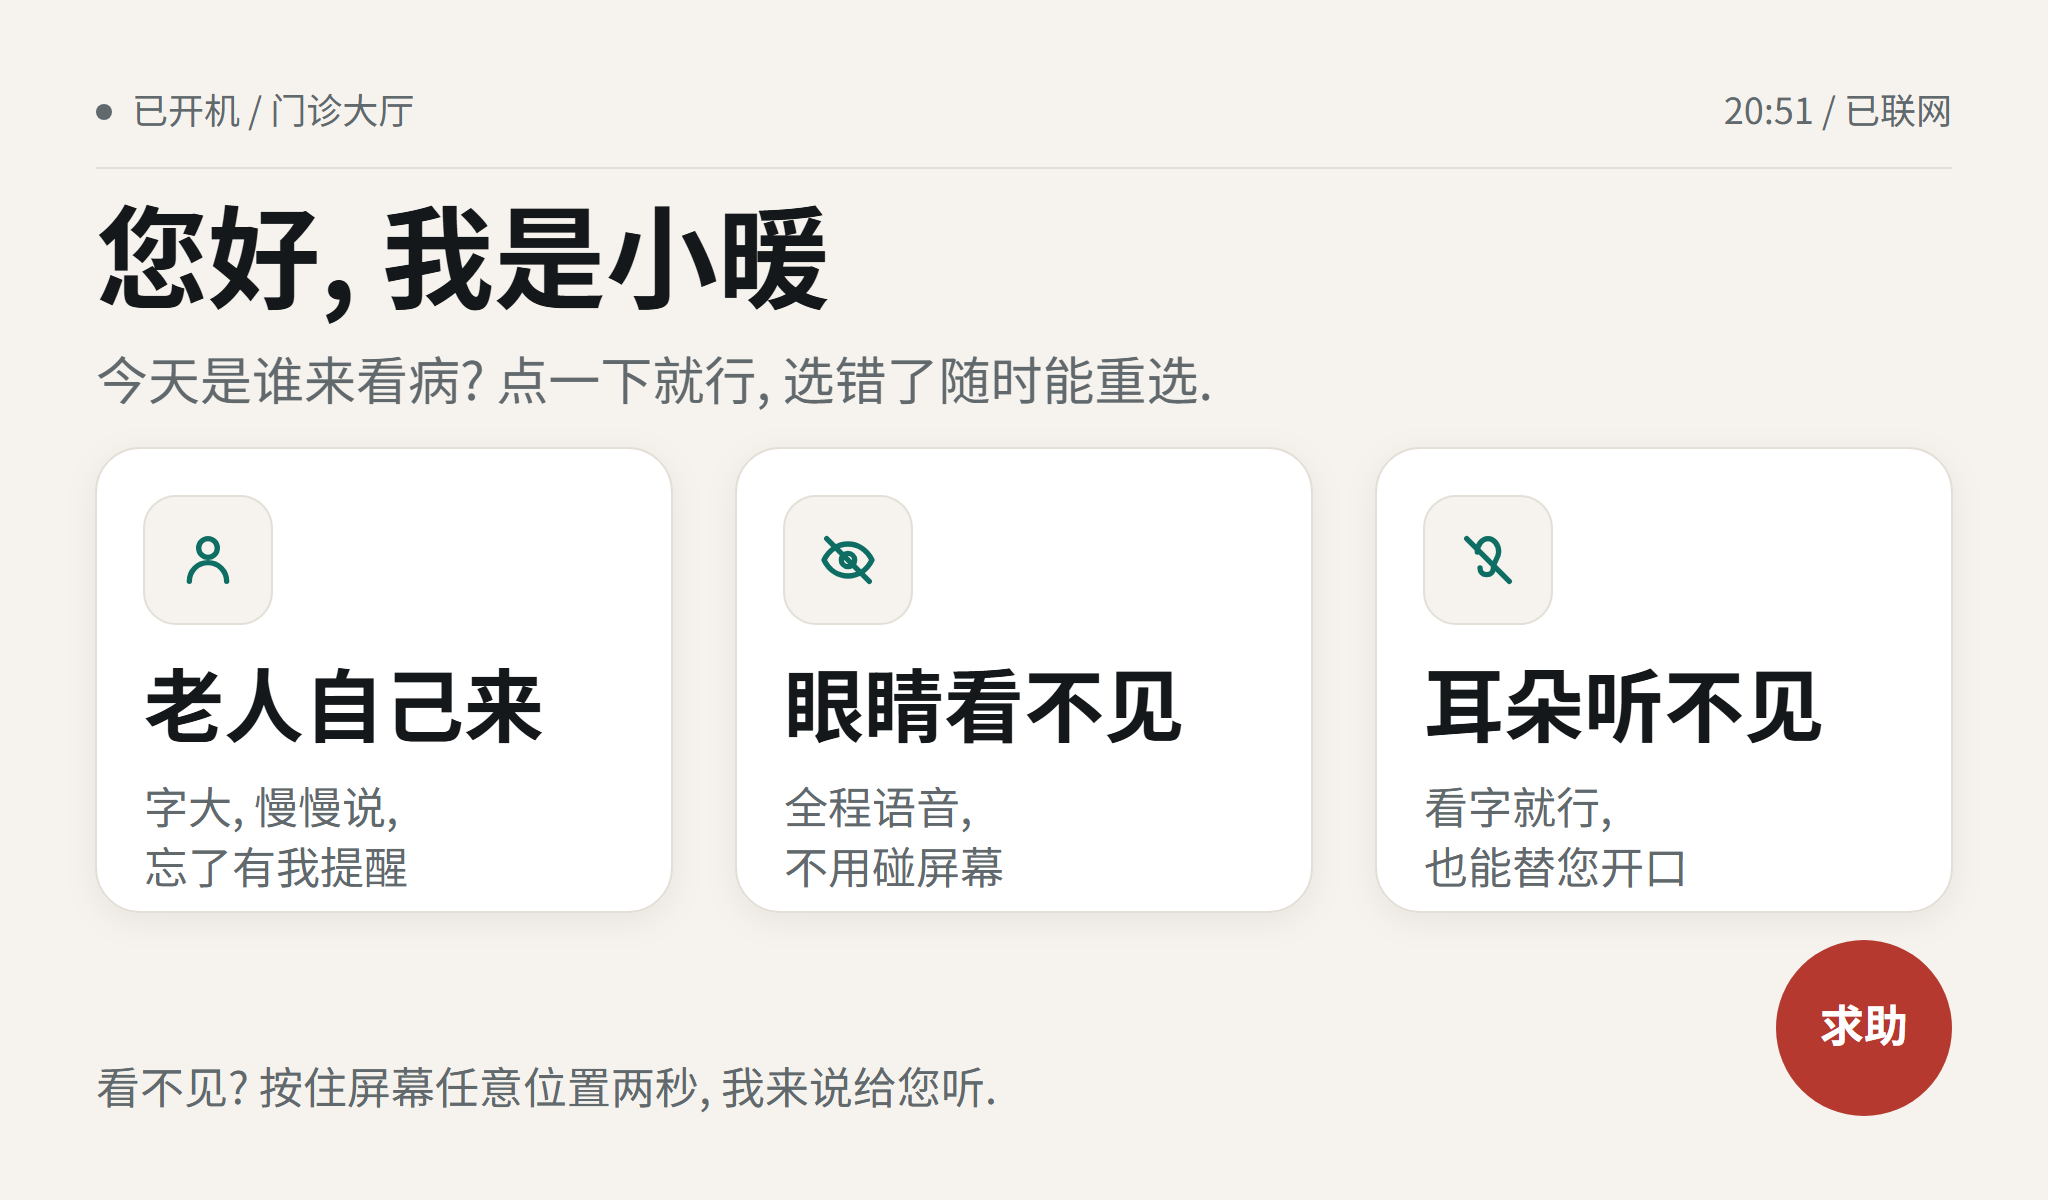
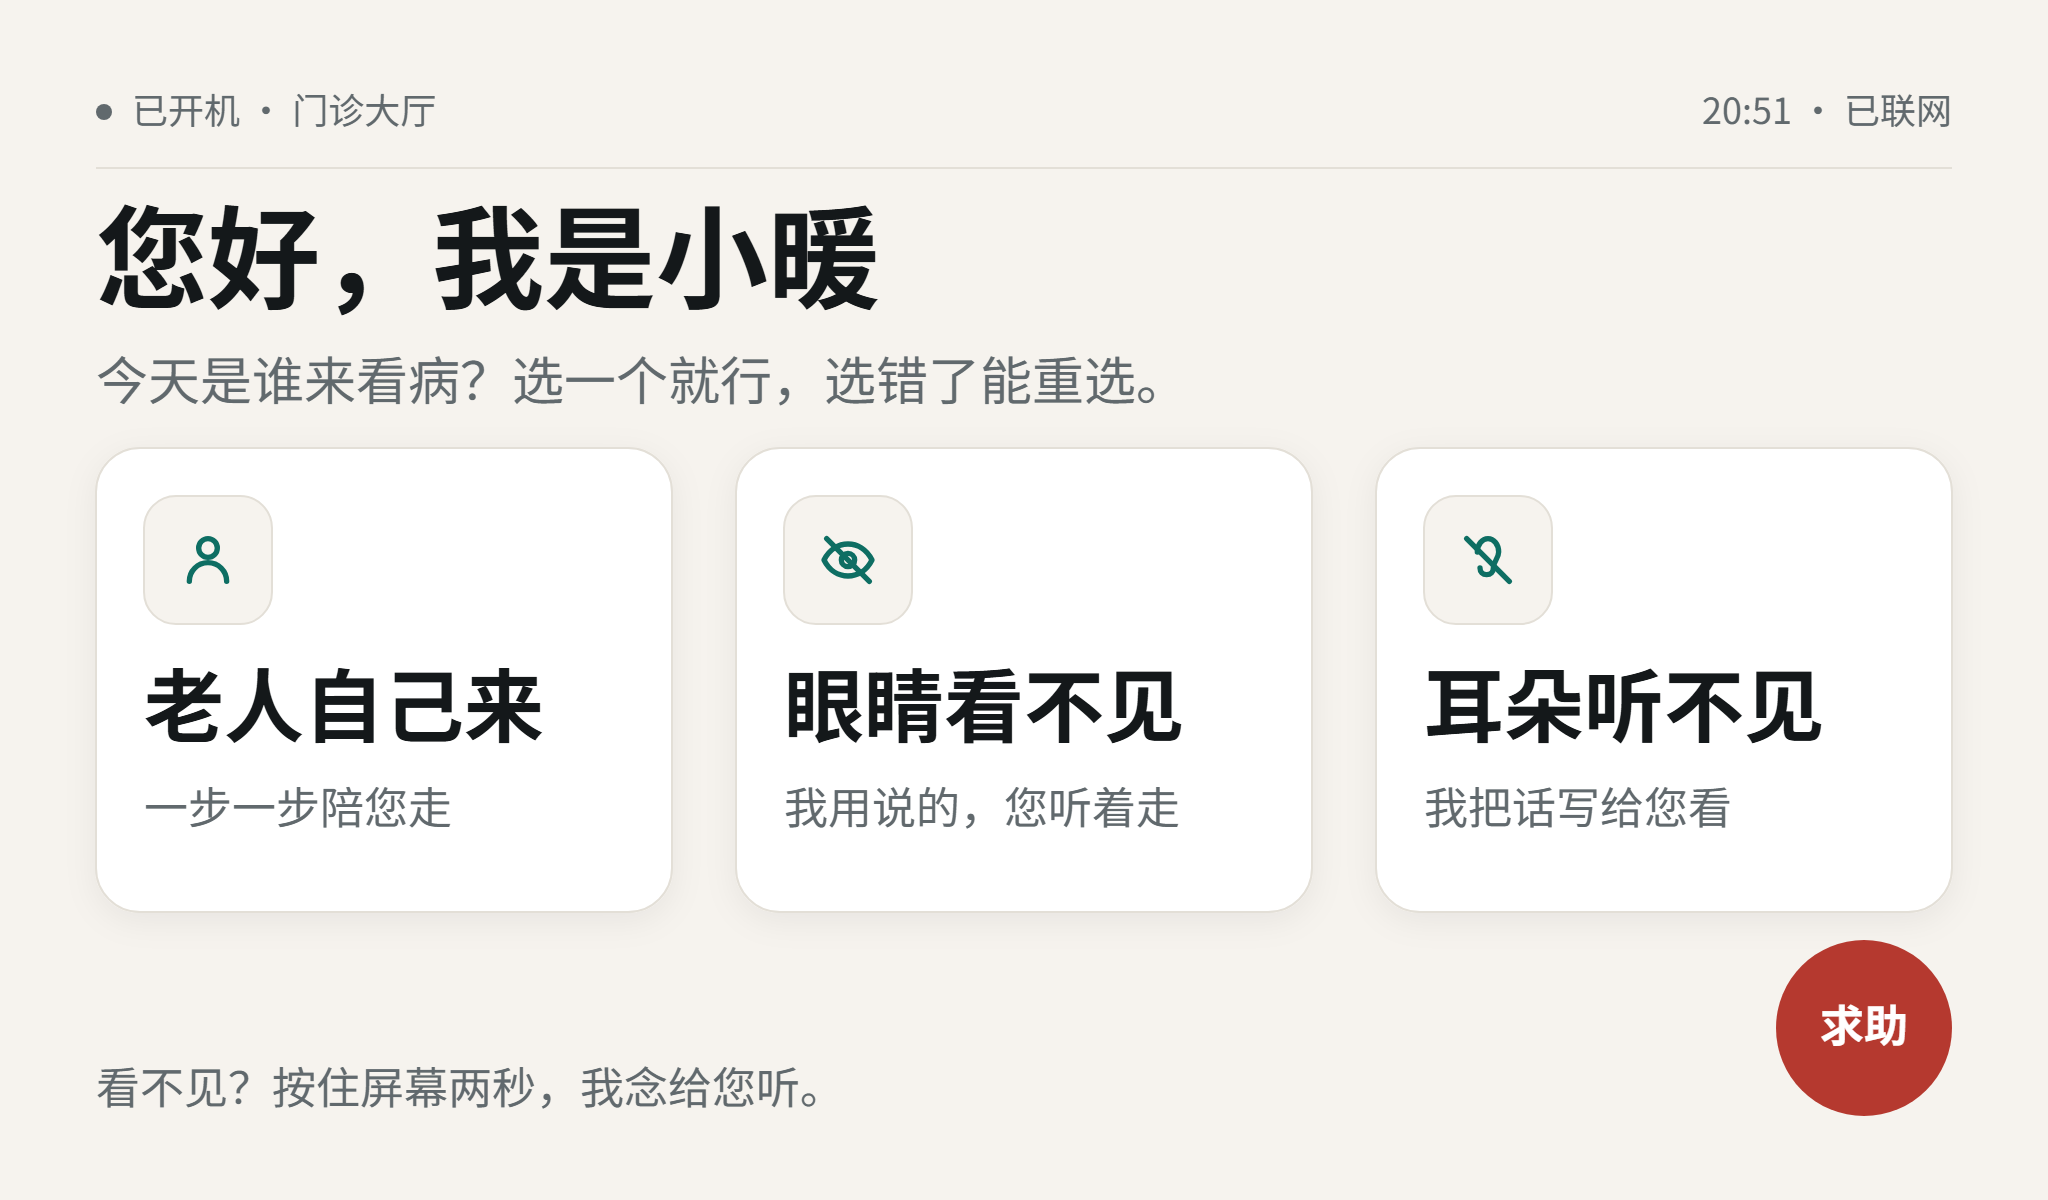
fix(T2): 屏01/04 按 T4 定稿同步文案与状态条

diff --git a/02-design/08-高保真规格-01-04.md b/02-design/08-高保真规格-01-04.md
@@ -2,8 +2,8 @@
 
 > 任务: 11-10 屏 01 入口分流 + 屏 04 复述校验.
 > 内容来源: `05-屏幕清单.md`. 样式来源: `04-视觉系统.md`. 组件来源: `07-组件库清单.md`.
-> 本文件只做落地规格, 不新增文案. 文案标点按项目规则转 ASCII, 语义不变; T4 若要全角标点, 以 T4 为准.
-> 磁贴说明 / 状态条 / 卡片标签是版式占位, T4 定稿后替换, 不改版式.
+> 本文件只做落地规格, 不新增文案. 文案取 T4 定稿 `05-research/屏幕动作提示-1117.md` 与 `05-屏幕清单.md`; 图内标点用全角, 本文件正文用 ASCII.
+> 副话 / 页脚 / 磁贴说明已按 T4 定稿替换, 每块不超过 18 字; T4 后续改词不改版式.
 > `参考-高保真草稿/` 里的 SVG 是布局参考, 不是交付图. 交付以 Figma 为准.
 
 ## 1 共用规则
@@ -43,18 +43,18 @@ y=530  页脚 22
 
 | 元素 | 位置 / 尺寸 | 样式 | 内容 |
 | --- | --- | --- | --- |
-| 状态条 | x=48, y=42, h=28 | 8px 圆点, 18px, ink-500 | 左: 已开机 / 门诊大厅. 右: 20:51 / 已联网 |
+| 状态条 | x=48, y=42, h=28 | 8px 圆点, 18px, ink-500 | 左: 已开机 · 门诊大厅. 右: 20:51 · 已联网. 不写屏名 |
 | 分隔线 | x=48..976, y=84 | 1px, line | - |
 | 标题 | x=48, 基线 150 | 56 / 700, ink-900 | 您好, 我是小暖 |
-| 副话 | x=48, 基线 200 | 26 / 400, ink-500 | 今天是谁来看病? 点一下就行, 选错了随时能重选. |
+| 副话 | x=48, 基线 200 | 26 / 400, ink-500 | 今天是谁来看病? 选一个就行, 选错了能重选. |
 | 磁贴 1 | x=48, y=224, 288 x 232 | r=22, surface, 1px line, 单层影 | 老人自己来 |
 | 磁贴 2 | x=368, y=224, 288 x 232 | 同上 | 眼睛看不见 |
 | 磁贴 3 | x=688, y=224, 288 x 232 | 同上 | 耳朵听不见 |
 | 图标底 | x=磁贴 x + 24, y=248, 64 x 64 | r=16, paper, 1px line | - |
 | 图标 | 32 x 32, 居中 | 2px 线, teal-600 | 人 / 眼加斜线 / 耳加斜线 |
 | 磁贴标题 | x=磁贴 x + 24, 基线 368 | 40 / 700, ink-900 | 见 2.3 |
-| 磁贴说明 | x=磁贴 x + 24, 基线 412 / 442 | 22 / 400, ink-500 | 两行, 见 2.3 |
-| 页脚 | x=48, 基线 552 | 22 / 400, ink-500 | 看不见? 按住屏幕任意位置两秒, 我来说给您听. |
+| 磁贴说明 | x=磁贴 x + 24, 基线 412 | 22 / 400, ink-500 | 单行, 见 2.3 |
+| 页脚 | x=48, 基线 552 | 22 / 400, ink-500 | 看不见? 按住屏幕两秒, 我念给您听. |
 | 求助键 | x=888, y=470, 88 x 88 | r=44, red-600, 白字 22 / 700 | 求助 |
 
 宽度算式: `3 x 288 + 2 x 32 = 928`, 正好落在 48..976.
@@ -63,16 +63,20 @@ y=530  页脚 22
 
 | 元素 | 文案 | 汉字数 |
 | --- | --- | --- |
-| 标题 | 您好, 我是小暖 | 6 |
-| 副话 | 今天是谁来看病? 点一下就行, 选错了随时能重选. | 20 |
+| 标题 | 您好，我是小暖 | 6 |
+| 副话 | 今天是谁来看病？选一个就行，选错了能重选。 | 18 |
 | 磁贴 1 标题 | 老人自己来 | 5 |
-| 磁贴 1 说明 | 字大, 慢慢说, 忘了有我提醒 | 11 |
+| 磁贴 1 说明 | 一步一步陪您走 | 7 |
 | 磁贴 2 标题 | 眼睛看不见 | 5 |
-| 磁贴 2 说明 | 全程语音, 不用碰屏幕 | 9 |
+| 磁贴 2 说明 | 我用说的，您听着走 | 8 |
 | 磁贴 3 标题 | 耳朵听不见 | 5 |
-| 磁贴 3 说明 | 看字就行, 也能替您开口 | 10 |
-| 页脚 | 看不见? 按住屏幕任意位置两秒, 我来说给您听. | 19 |
+| 磁贴 3 说明 | 我把话写给您看 | 7 |
+| 页脚 | 看不见？按住屏幕两秒，我念给您听。 | 14 |
 | 求助键 | 求助 | 2 |
+
+字数按汉字 + 数字 + 字母, 不含标点; 单块 ≤18 字. 取 T4 `屏幕动作提示-1117.md` §3.
+
+T4 同表还给了 01 的「听障提示: 不用听，看字就行」, 但 `05-屏幕清单.md` 的 01 段没有这一项, 加上会成第 4 个文字块, 与信息架构「同屏 ≤3 块」冲突. 本屏暂不出, 待 T1 与 T4 定是否进图.
 
 ### 2.4 状态与验收
 
@@ -105,7 +109,7 @@ y=530  页脚 22
 
 | 元素 | 位置 / 尺寸 | 样式 | 内容 |
 | --- | --- | --- | --- |
-| 状态条 | x=48, y=42, h=28 | 8px 圆点, 18px, ink-500 | 左: 复述校验. 右: 20:51 / 已联网 |
+| 状态条 | x=48, y=42, h=28 | 8px 圆点, 18px, ink-500 | 左: 已开机 · 门诊大厅. 右: 20:51 · 已联网. 不写屏名 |
 | 分隔线 | x=48..976, y=84 | 1px, line | - |
 | 标题 | x=48, 基线 140 | 40 / 700, ink-900 | 我复述一遍, 您听听对不对 |
 | 卡片 | x=48, y=180, 928 x 200 | r=20, surface, 1px line, 单层影 | - |
@@ -128,17 +132,19 @@ y=530  页脚 22
 
 | 元素 | 文案 | 汉字数 |
 | --- | --- | --- |
-| 标题 | 我复述一遍, 您听听对不对 | 11 |
+| 标题 | 我复述一遍，您听听对不对 | 11 |
 | 标签 1 | 今天看 | 3 |
-| 值 1 | 心血管内科 / 王医生 / 9:40 | 8 |
+| 值 1 | 心血管内科 · 王医生 · 9:40 | 8 |
 | 标签 2 | 要做 | 2 |
-| 值 2 | 两件事: 抽血(要空腹), 心电图 | 11 |
+| 值 2 | 两件事：抽血（要空腹）、心电图 | 11 |
 | 标签 3 | 在哪 | 2 |
-| 值 3 | 都在二楼, 先抽血, 再做心电图 | 12 |
-| 主按钮 | 对, 就是这样 | 5 |
-| 次按钮 | 不对, 我再说一遍 | 7 |
-| 页脚 | 记不住没关系, 我会一直记着. | 12 |
+| 值 3 | 都在二楼，先抽血，再做心电图 | 12 |
+| 主按钮 | 对，就是这样 | 5 |
+| 次按钮 | 不对，我再说一遍 | 7 |
+| 页脚 | 记不住没关系，我会一直记着。 | 12 |
 | 求助键 | 求助 | 2 |
+
+取 T4 `屏幕动作提示-1117.md` §5. T4 的值 2 写「要做两件事：…」, 与标签「要做」重复, 这里去掉前缀, 语义不变; 若 T4 要求逐字照抄, 改这一格即可.
 
 ### 3.4 状态与验收
 
@@ -170,13 +176,14 @@ y=530  页脚 22
 
 | 屏 | 主话 / 标题 | 内容块 | 按钮 | 状态色 | 求助键 |
 | --- | --- | --- | --- | --- | --- |
-| 02 视障语音通道 | 往前走十八步 | 波形 + 步数 | 无 | 红 | 是 |
-| 03 替我说 | 替我说 | 芯片 6 | 主按钮 1 | 红 | 是 |
-| 05 医保三宫格 | 这 386 块, 医保帮您出了 253 块 | 金额宫格 3 + 明细 | 无 / 次按钮 | 红 | 是 |
-| 06 家属端 | 报平安, 不监控 | 三条原则 + 手机卡 3 | 无 | 绿点 3 + 红 | 是 |
-| E1 我没听清 | 我没听清, 您说的是哪个? | 两个候选 320 x 200 | 次按钮 1 | 红 | 是 |
+| 02 视障语音通道 | 往前走十八步 | 波形 + 任务进度 | 无 | 无 | 否, 任意位置长按 1.5s |
+| 03 替我说 | 替我说 | 芯片 6 | 主按钮 1 | 无 | 是 |
+| 05 医保三宫格 | 这 386 块，医保帮您出了 253 块 | 金额宫格 3 + 明细 | 无 / 次按钮 | 无 | 是 |
+| 06 家属端 | 她一个人来的，每一步我都知道 | 三条原则 + 手机卡 3 | 无 | 绿点 3 | 是 |
+| E1 我没听清 | 我没听清，您说的是哪个？ | 两个候选 320 x 200 | 次按钮 1 | 琥珀 | 是 |
 
 坐标按 01 / 04 的栅格推导, 不在这里写死. 05 的文案与 04 的字阶优先.
+02 无独立求助键, 页面无明显按钮; 各屏状态色只表达实际状态, 不作装饰 (红色只给求助与出错, 绿色只给已完成, 琥珀只给待办与不确定).
 
 ## 6 导出自检
 
@@ -184,7 +191,7 @@ y=530  页脚 22
 - [ ] sRGB, 无 ICC, 无元数据.
 - [ ] 文件名 `小暖_01_入口分流@2x.png`, `小暖_04_复述校验@2x.png`.
 - [ ] 缩到 160px 宽仍能分辨主体.
-- [ ] A3 打印后 18px 免责仍清楚.
+- [ ] A3 打印后, 状态条 18px 与页脚 22px 都能认出; 无小于 18px 的字.
 - [ ] 七张并排看, 状态条 / 页脚 / 求助键在同一条线.
 - [ ] 无第二品牌色, 无 emoji, 无系统默认字体.
 

diff --git a/02-design/07-组件库清单.md b/02-design/07-组件库清单.md
@@ -56,7 +56,7 @@
 | # | 冲突 | 本清单暂按 | 要改哪 |
 | --- | --- | --- | --- |
 | 1 | 06 G2 列 9 个组件, 漏了每屏都有的求助键; 06 G3 又要求每屏 88 x 88 求助键 | 9 + 1, 求助键单列变体 | 06:64 补第 10 个, 或明确算主按钮 danger 变体 |
-| 2 | 已统一: 04 第 5 节状态条改为 18px, 与 04 第 9 节一致 | 18px | 无 |
+| 2 | 04 第 5 节 状态条 14px vs 04 第 9 节 不小于 18px | 18px | 已解决（bc1ba9d，14→18）：04 第 5 节状态条改为 18px，与 04 第 9 节一致 |
 | 3 | 04 第 3 节 一屏一个 display vs 05 屏 05 三个 56px 数字 | 3 个 56px 数据数字 | 04 第 3 节 加数据展示例外, 或数字降到 40px |
 | 4 | 04 第 4 节 间距 8 的倍数 vs 06 G2 间距 4 的倍数 | 8 | 06:61 |
 | 5 | 04 第 5 节 没有芯片 / 金额宫格 / 提示条 / 小暖的完整规格 | 按 05 屏与 04 第 2 / 8 节 补 | 04 第 5 节 |

diff --git a/02-design/参考-高保真草稿/README.md b/02-design/参考-高保真草稿/README.md
@@ -4,7 +4,7 @@
 
 - 不是交付图, 不要直接放进 `04-deliverables/01-高保真图/`.
 - 画布 1024 x 600, 导出目标 2048 x 1200 @2x.
-- 文案取自 `02-design/05-屏幕清单.md`, 标点按项目规则转 ASCII.
+- 文案取 T4 定稿 `05-research/屏幕动作提示-1117.md`; 图内标点用全角, 规格文档用 ASCII.
 - 颜色 / 字号 / 组件尺寸以 `02-design/04-视觉系统.md` 和 `07-组件库清单.md` 为准.
 - 预览 PNG 只看效果, 交付以 Figma 导出为准.
 - SVG 的 xmlns 冒号用字符引用, 避免匿名检查把 XML 命名空间当外链.
